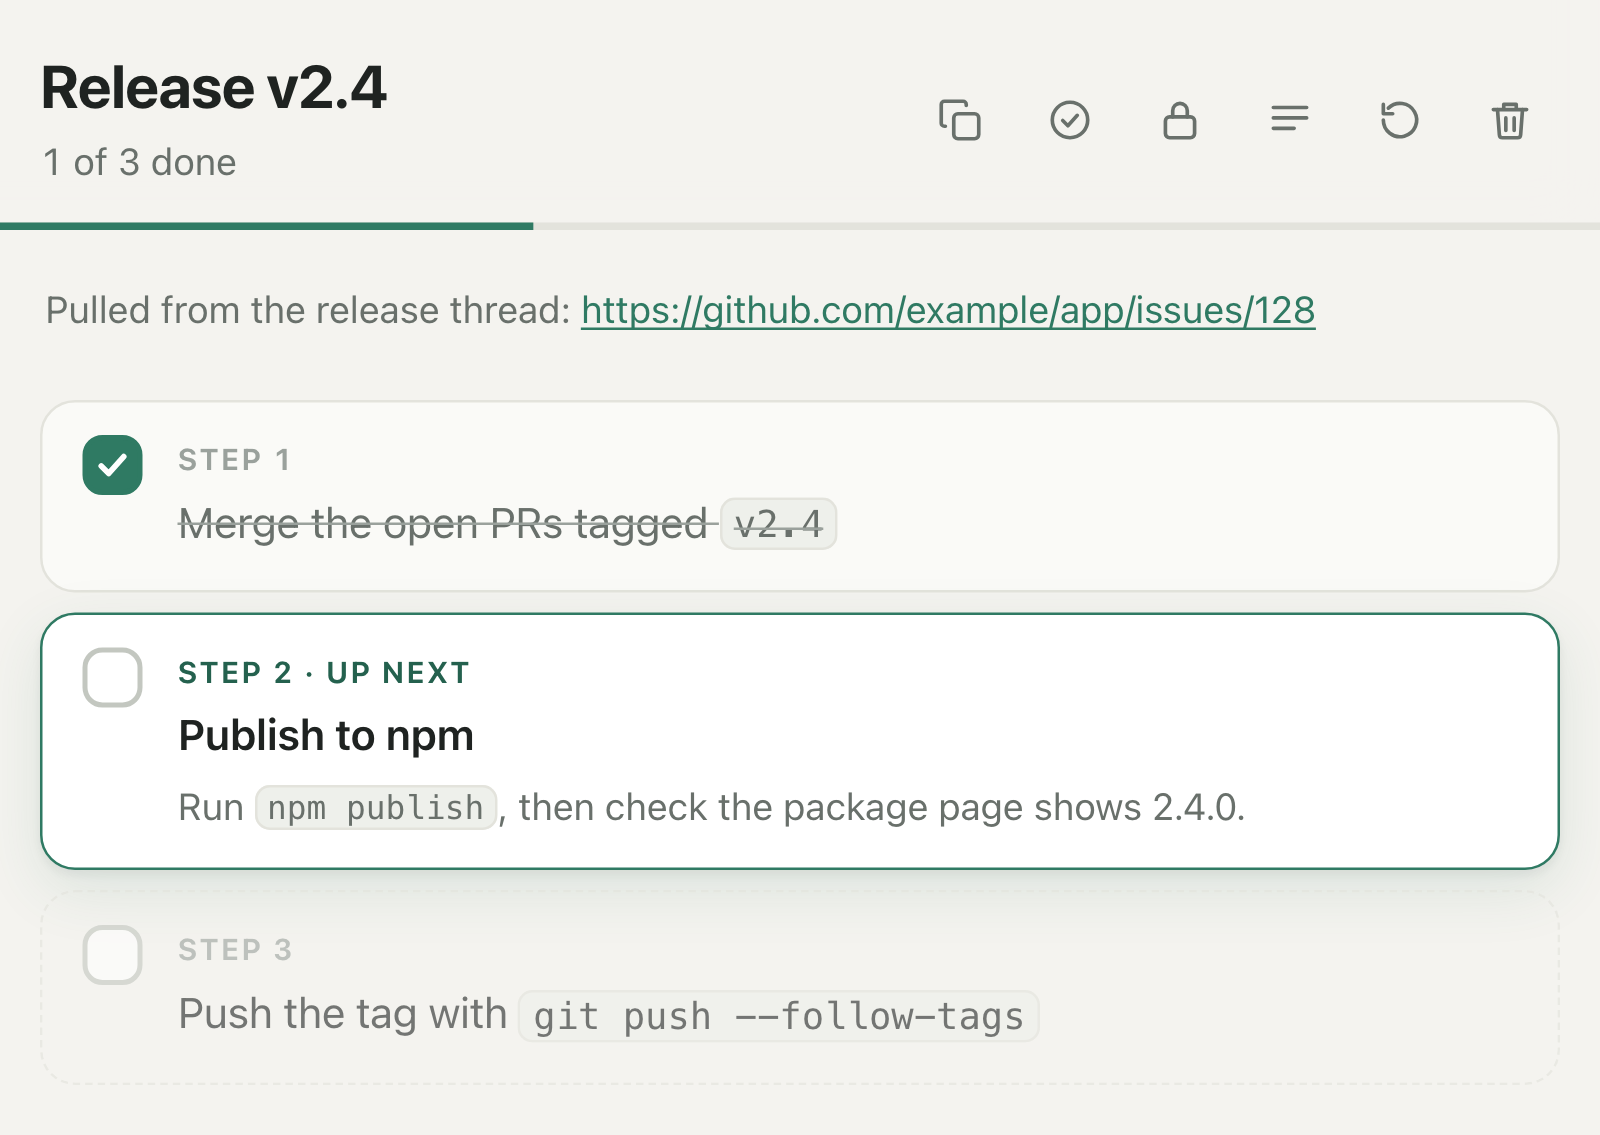
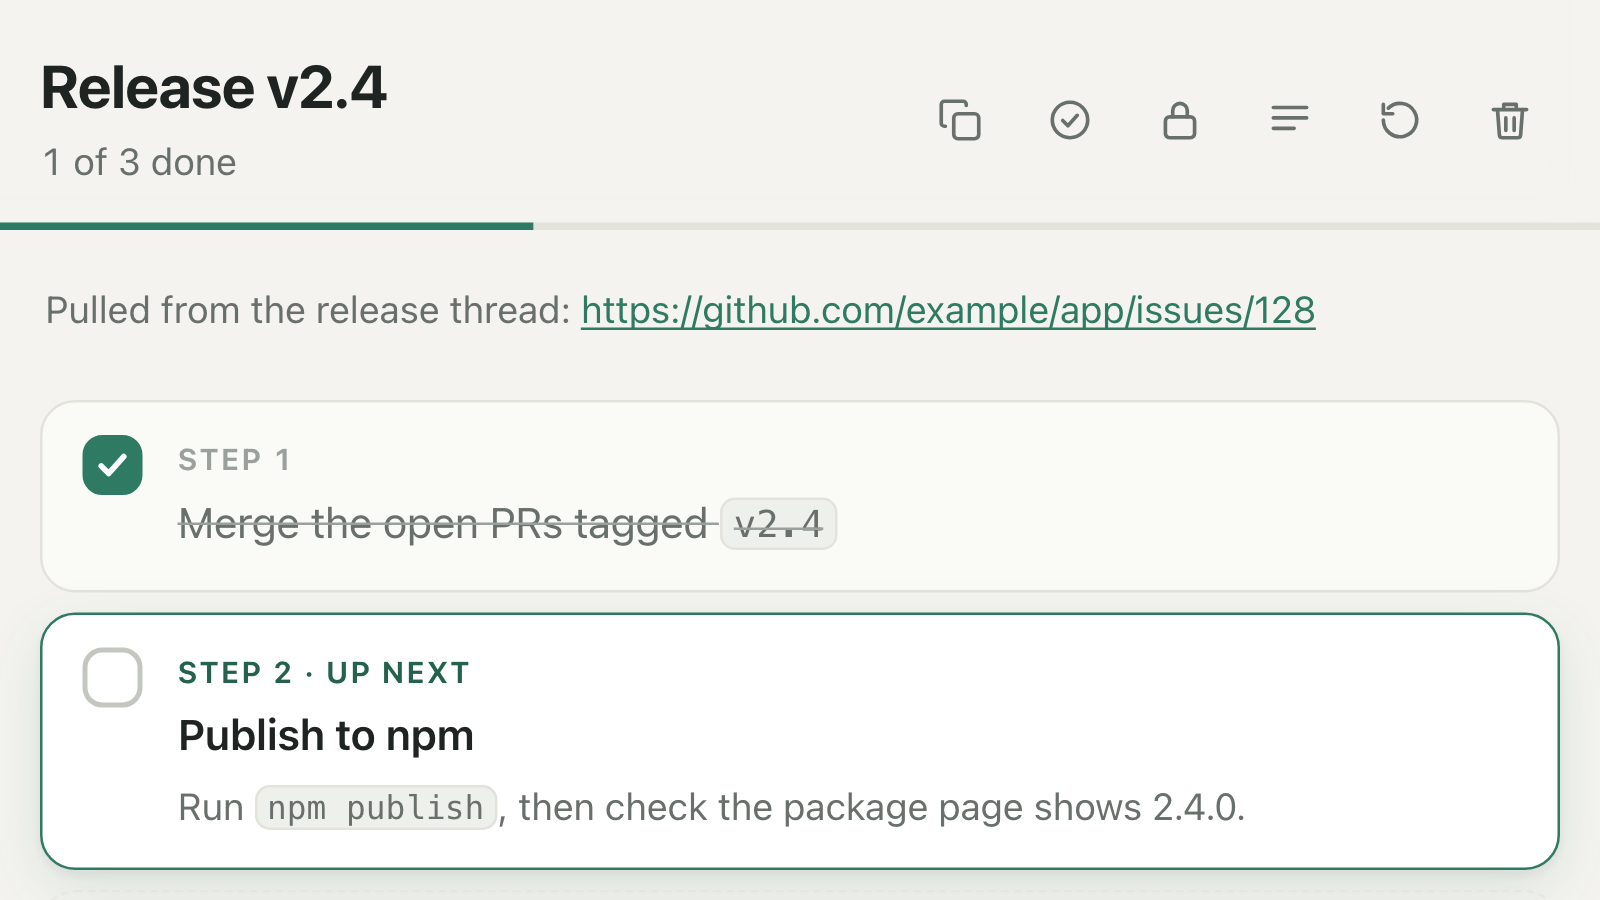
README: crop the screenshot to a 16:9 preview, full width
Claude-Session: https://claude.ai/code/session_01A1AegPvBHEr5ogpSG1PUU6

diff --git a/README.md b/README.md
@@ -4,12 +4,10 @@ Turn a list of tasks into a checklist page that lives only in your browser.
 
 Give an agent a wall of text, let it pull out the tasks, and get back a link to a clean checklist: one checkbox per task. It works at any screen size and follows your system's light or dark setting.
 
-<p align="center">
-  <picture>
-    <source media="(prefers-color-scheme: dark)" srcset="docs/screenshot-dark.png">
-    <img src="docs/screenshot-light.png" width="640" alt="A Listless checklist titled “Release v2.4”: an ordered list of three steps with a description linking to the release thread. Step 1 is checked off, step 2, “Publish to npm”, is highlighted as up next, and step 3 is locked.">
-  </picture>
-</p>
+<picture>
+  <source media="(prefers-color-scheme: dark)" srcset="docs/screenshot-dark.png">
+  <img src="docs/screenshot-light.png" alt="A Listless checklist titled “Release v2.4”, with a description linking to the release thread. Step 1 is checked off, and step 2, “Publish to npm”, is highlighted as up next.">
+</picture>
 
 ## No off-site storage: everything is local
 
